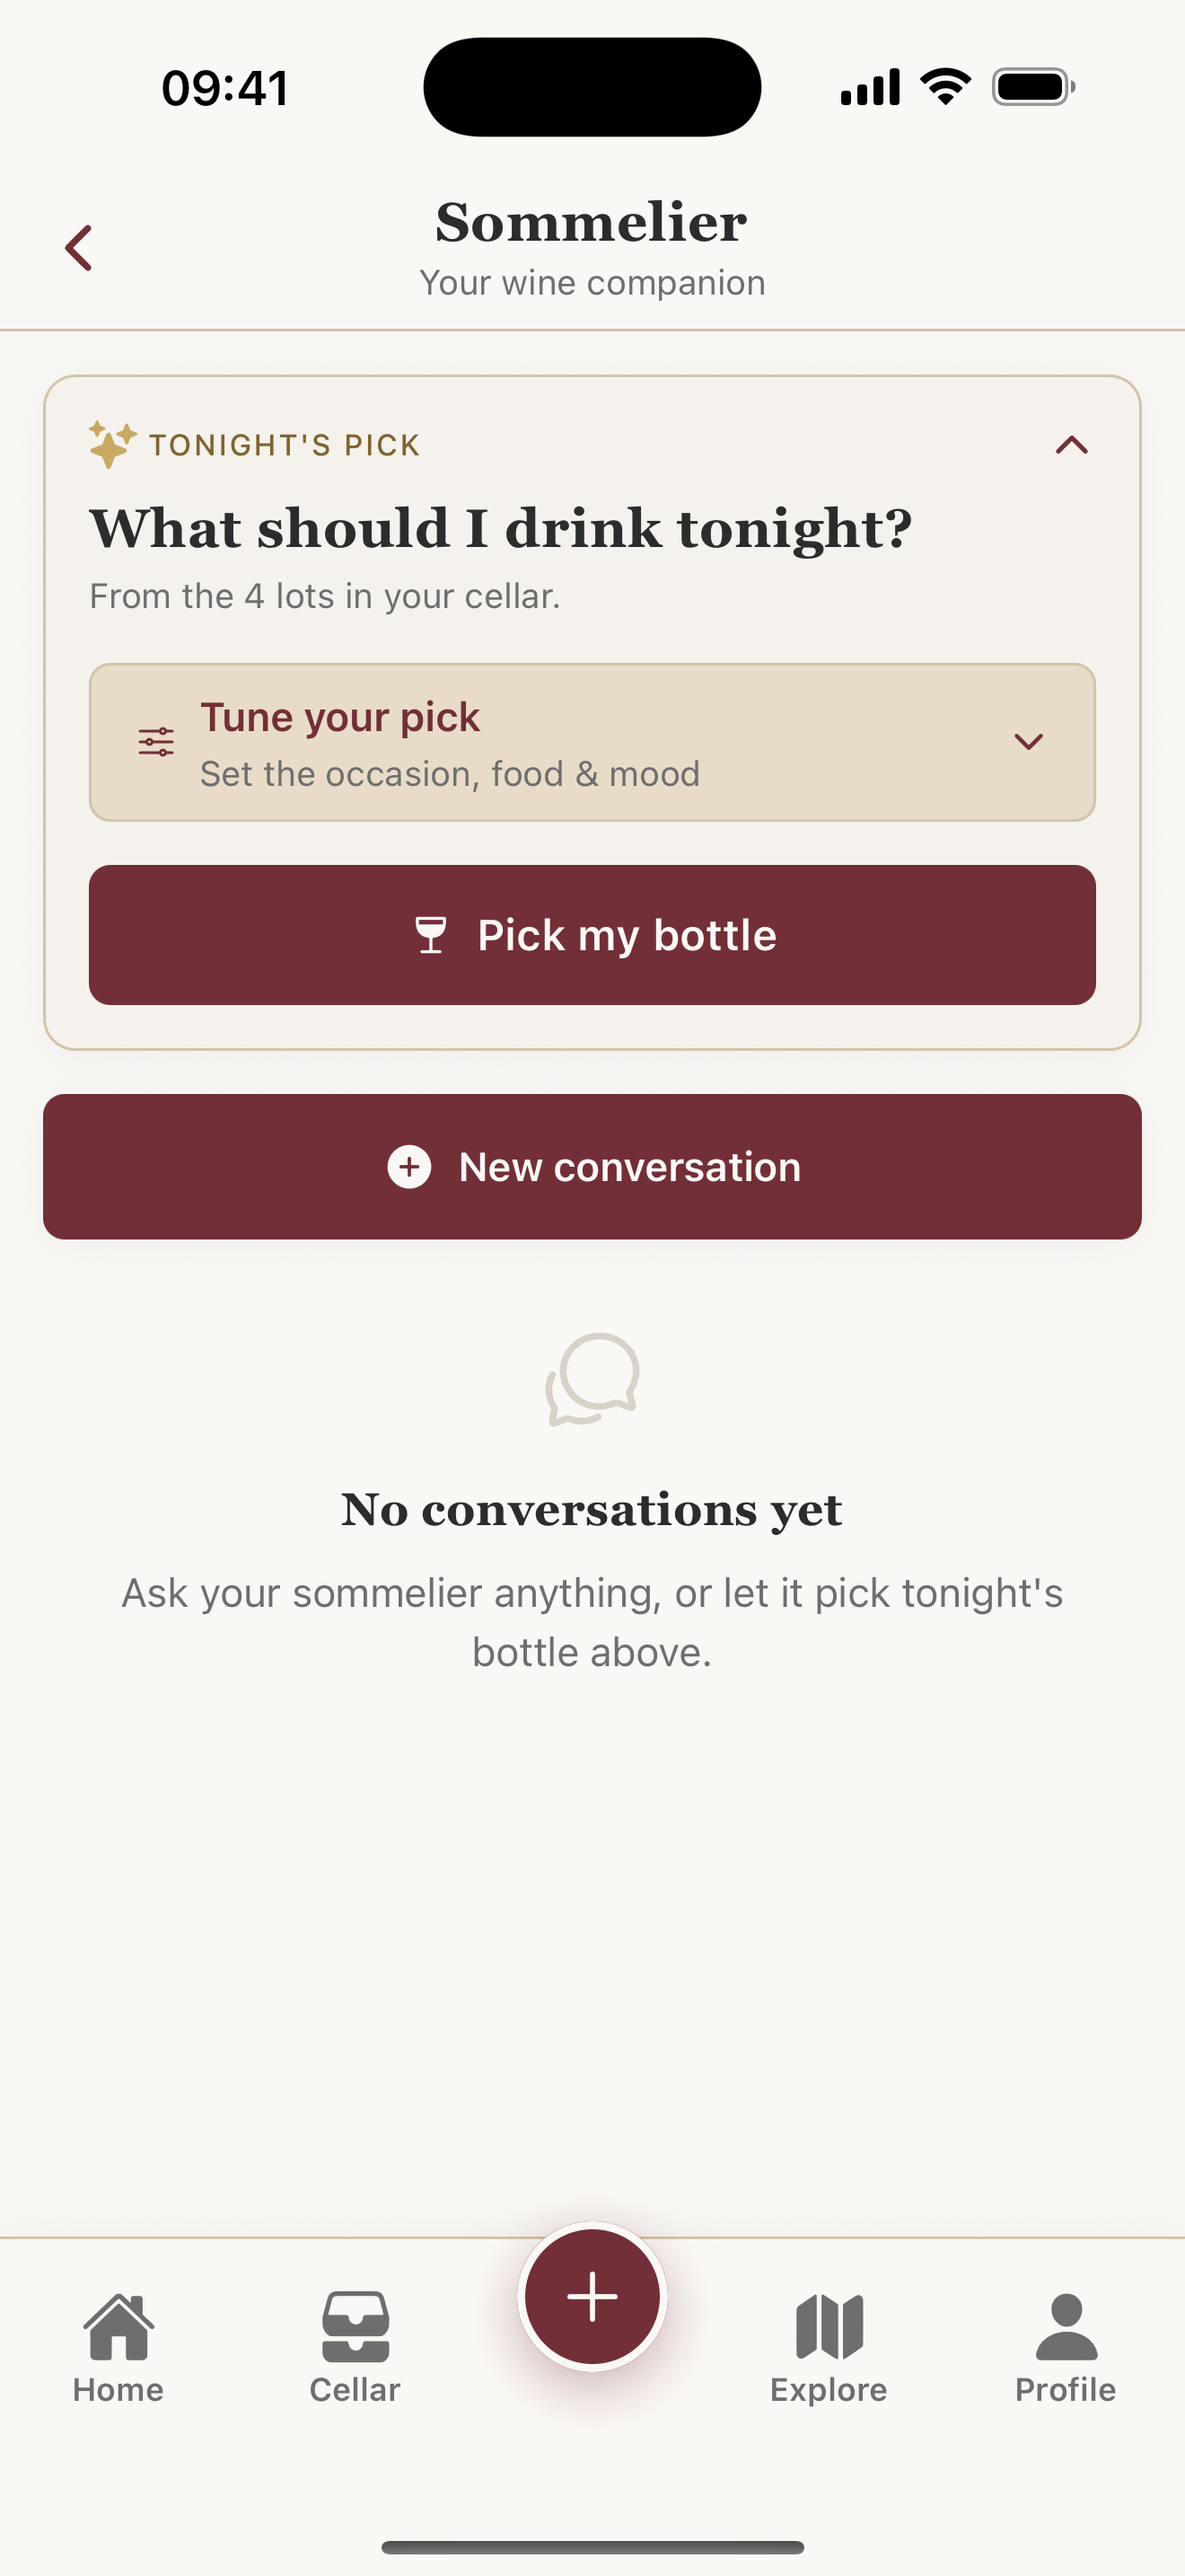
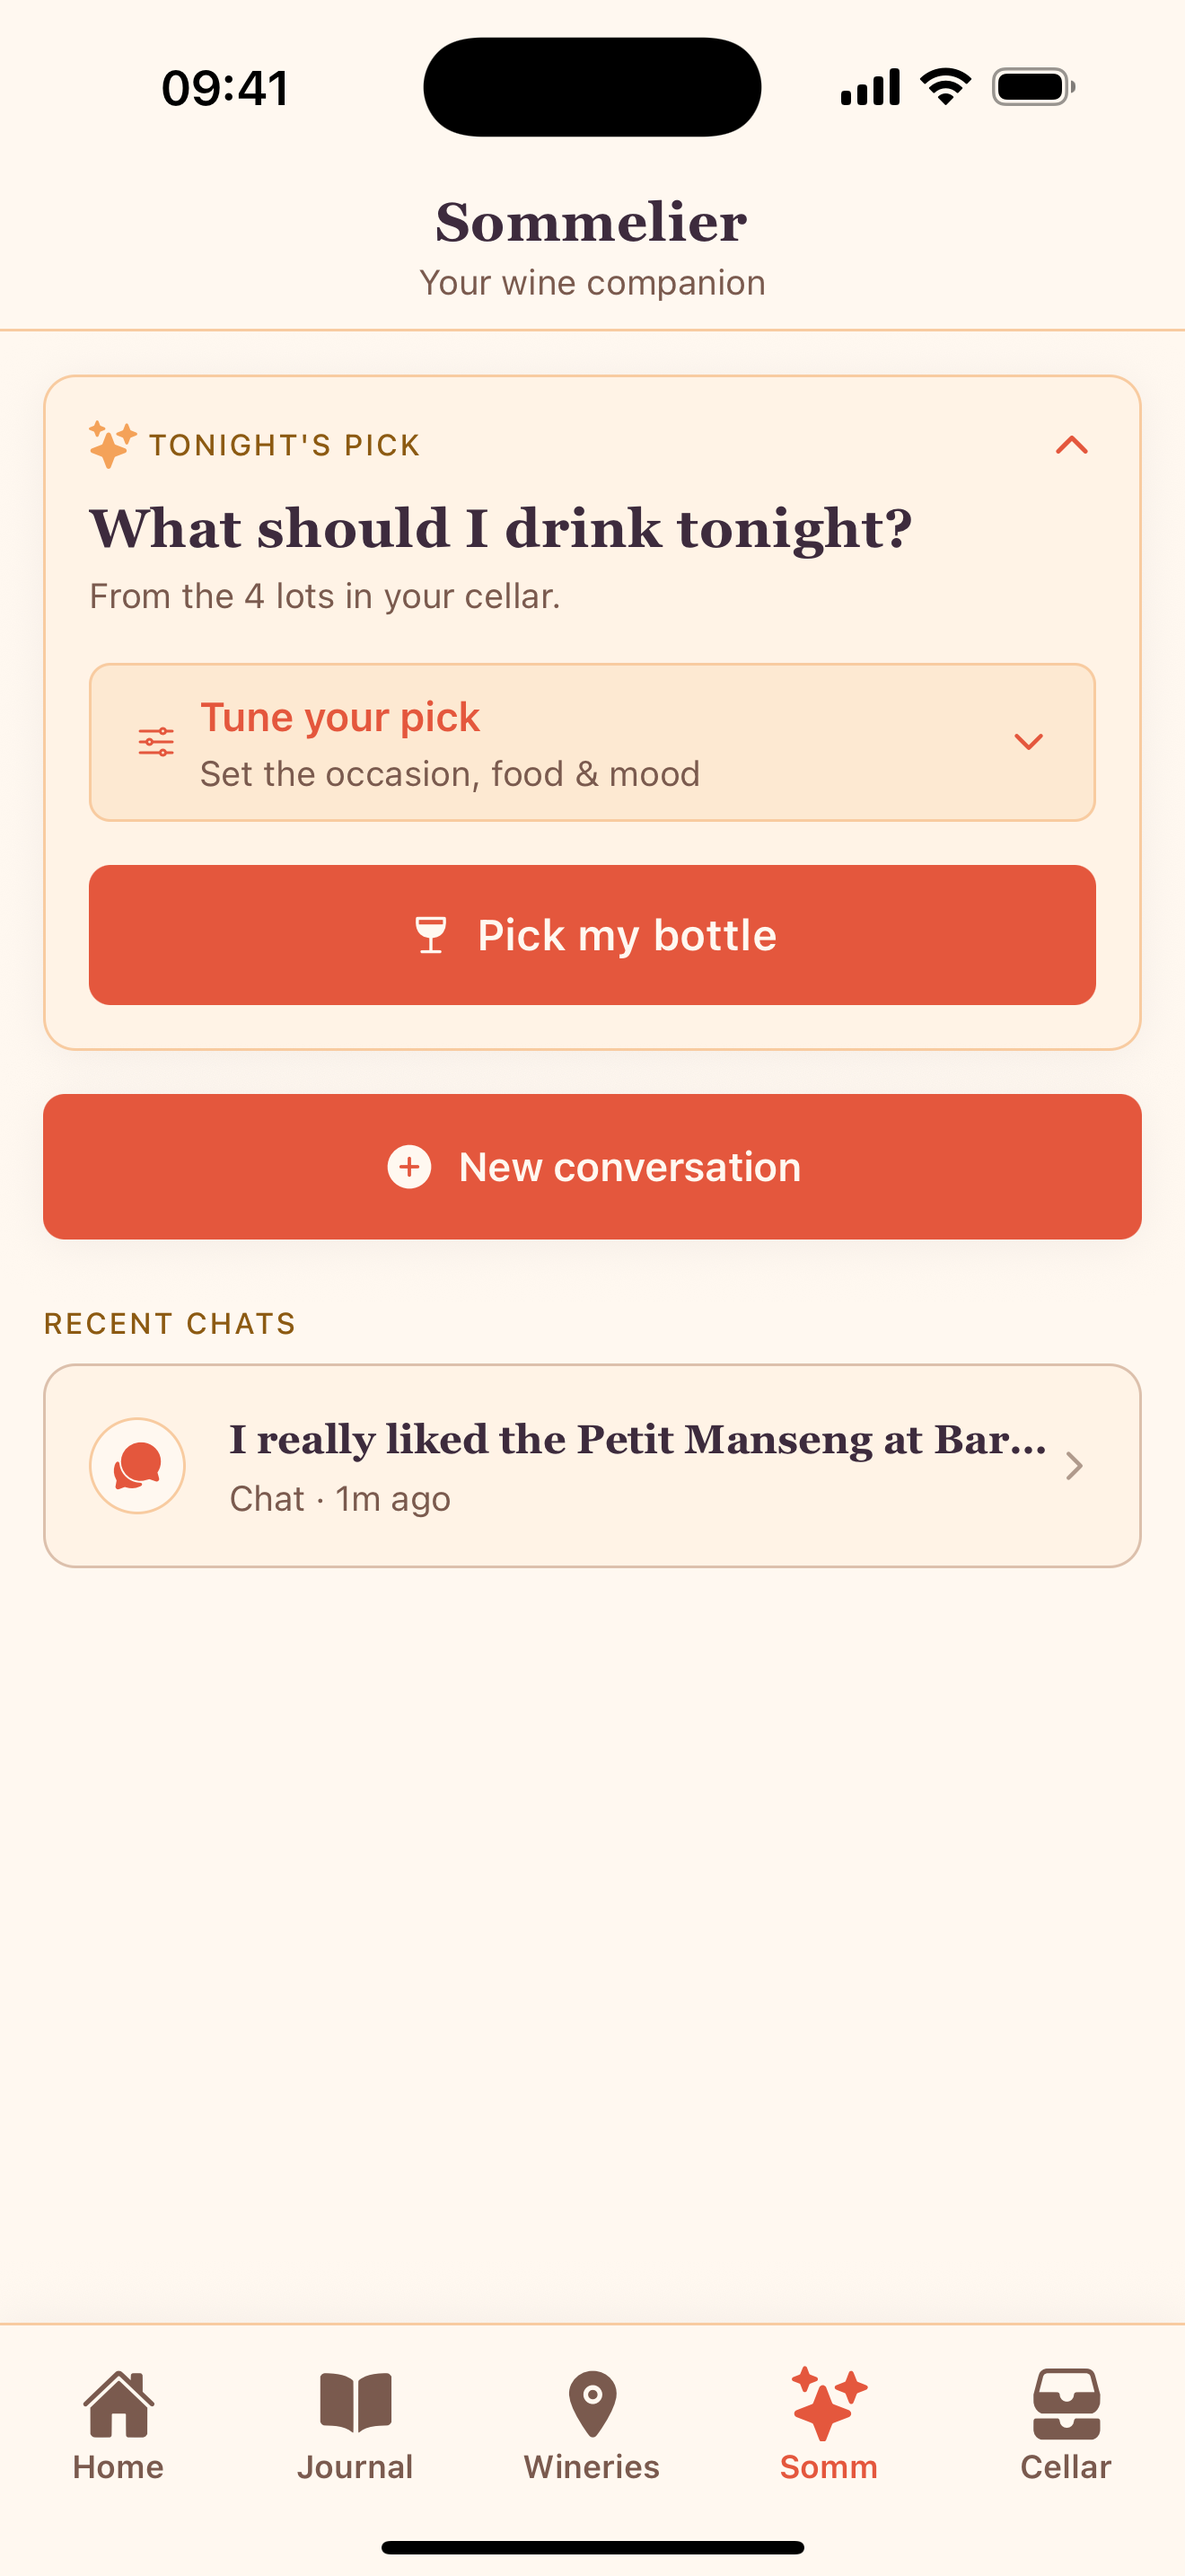
feat(site): positioning rewrite — memory-led hero, winery pivot as a first-class pillar (#218)
* feat(site): positioning rewrite — memory-led hero, sommelier up front, places as the passport

Marketing rewrite per the positioning report (PR #201), the Sommo audit
(PR #202), and the 2026-09-09 owner direction:

- Hero: "Remember what you tasted. Discover what you like." — memory-led,
  no-expertise-needed reassurance; title/meta/JSON-LD follow.
- Chapter order now tells the story: Journal (broadened beyond wineries) →
  Sommelier (beginner questions) → Places as "your passport", merged with
  the map and showcasing the NEW Pro winery intel (live Google rating,
  hours, website) as a first-class pillar → Cellar.
- Truth fixes: dropped the now-false "other apps recommend from crowd
  scores" claim; Tonight's Pick shown as Pro (code agrees as of #213);
  softened the offline FAQ promise; added the never-deleted trust line.
- Pricing reframed to "Start with a free journal. Get more help with Pro."
  — sell the help, not the infrastructure bill; compare table gains a
  Wineries group with the live-details Pro row.
- App Store listing pack aligned: subtitle "Wine notes & an AI sommelier",
  new promotional text (152/170) and description with the winery pivot.

Screenshots to follow on this branch from the new simulator build.

* chore(screenshots): longer settle for the winery shot's live Google card

* feat(site): real app screenshots from the seeded demo account

Captured headlessly (scripts/capture-screenshots.sh) from simulator build
[…]

diff --git a/docs/business/app-store-listing.md b/docs/business/app-store-listing.md
@@ -11,7 +11,7 @@ Everything App Store Connect asks for, written out so it can be pasted in. Chara
 | Field | Value | Limit |
 |---|---|---|
 | **Name** | `Cork & Note: Wine Journal` | 25/30 |
-| **Subtitle** | `Log tastings & winery visits` | 28/30 |
+| **Subtitle** | `Wine notes & an AI sommelier` | 28/30 |
 | **Primary category** | Food & Drink | |
 | **Secondary category** | Lifestyle | |
 | **Bundle ID** | `com.nicholashorton.corkandnote` | |
@@ -33,33 +33,33 @@ Do **not** repeat words already in the name or subtitle — Apple indexes those 
 Editable any time without a new build — use it for seasonal hooks.
 
 ```
-Your tasting-room memory. Log every wine, remember where you had it, and ask a sommelier who has actually read your notes.
+Remember what you tasted. Discover what you like. Log any wine in plain words, ask a sommelier who has read your notes, and keep every winery you visit.
 ```
 
 ## 4. Description
 
 ```
-Cork & Note is the wine journal for people who actually go to wineries.
+Remember what you tasted. Discover what you like.
 
-You taste six wines in an afternoon, love the third one, and by the next weekend you cannot remember its name. Cork & Note fixes that.
+You remember liking it — the label, the porch, the second pour. A week later the name is gone. Cork & Note fixes that.
 
-LOG THE TASTING ROOM
-Capture each wine as you taste it — ratings, flavour notes, a photo, and how it made you feel. Tag the winery, the restaurant, or nowhere at all. A wine logged without a location still counts.
+LOG ANY WINE, ANYWHERE
+A bottle at home, dinner out, or a flight at the tasting bar — capture each wine as you taste it: ratings, flavour notes, a photo, and how it made you feel. Tag the place, or don't. No wine vocabulary needed.
+
+ASK A SOMMELIER
+An AI wine companion grounded in your own ratings, not crowd scores. Ask what to open with dinner, how to describe a wine you like, or what the wines you've loved have in common. Beginner questions are its favourite kind.
+
+KEEP EVERY WINERY
+Each place you visit gets its own page — your visits, the wines you poured, your notes and photos — on a map that fills in as you travel. With Pro, winery pages add live ratings, opening hours and websites, so the record of your last visit helps you plan the next one.
 
 SCAN THE LABEL
 Point your camera at a bottle or a tasting-room card and let Cork & Note fill in the producer, the vintage and the grapes, so you can get back to drinking.
 
-REMEMBER WHERE YOU HAVE BEEN
-Every place you have logged, on a map and in a list, with the wines you tried at each one. See your most-visited winery and everywhere you have explored.
-
 KEEP A CELLAR
 Track the bottles you own with drink windows that tell you what is ready now, what needs holding, and what to open tonight before it slips past its peak.
 
-ASK A SOMMELIER
-An AI wine companion grounded in your own ratings. Ask what to open with dinner, what you might enjoy next, or let it pick tonight's bottle from your cellar. It knows what you actually liked, because it has read your notes.
-
-BUILT FOR REAL TASTING ROOMS
-Works when the signal does not. Cork & Note tells you when you are offline instead of pretending to save.
+YOURS, PRIVATELY, FOREVER
+No feed, no followers. Your notes are private and never deleted — on any plan. And it tells you when you are offline instead of pretending to save.
 
 Cork & Note is for people of legal drinking age. Please drink responsibly.
 ```
